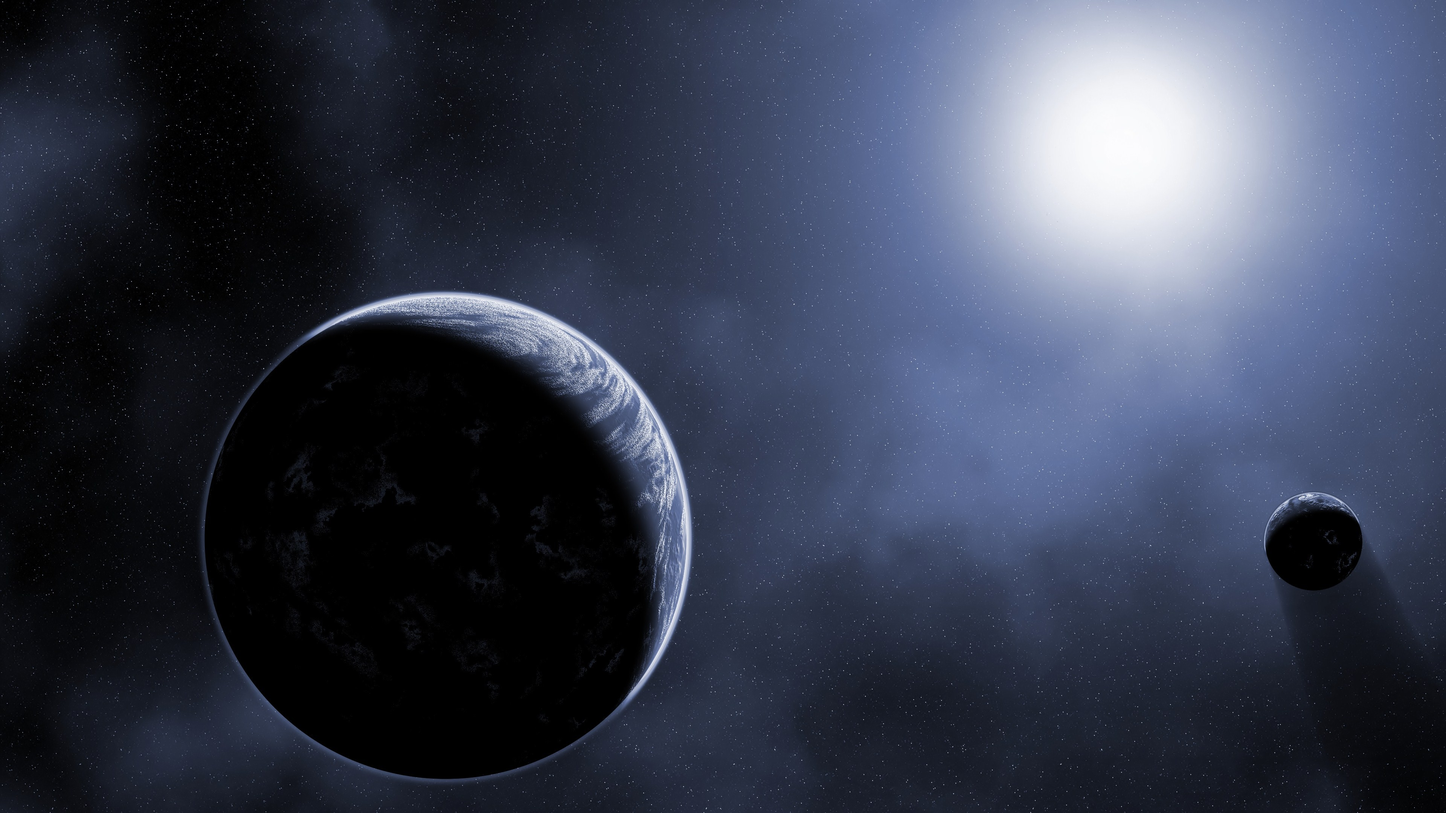
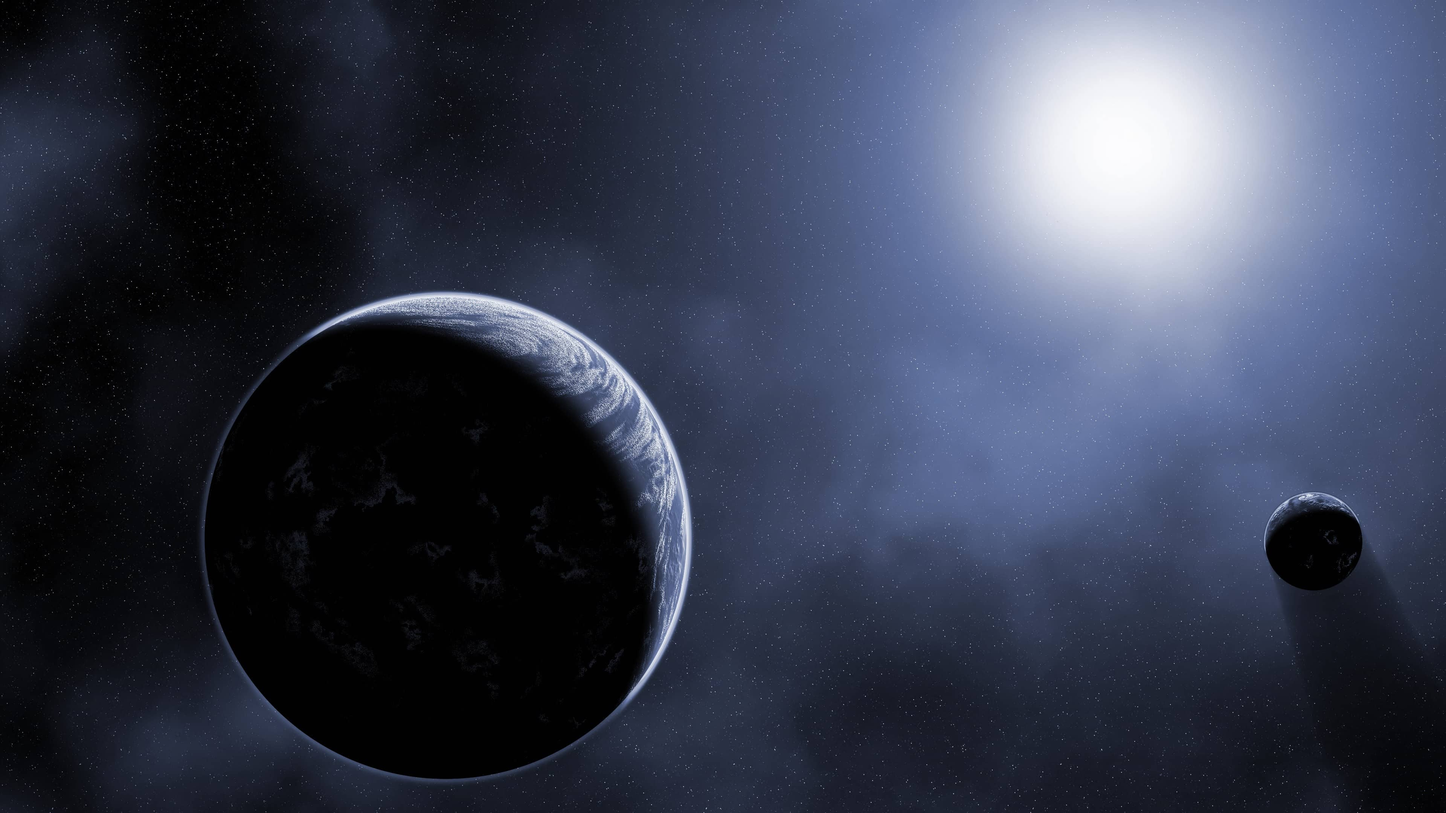
fixed navbar responsive, and fondo_mercury.jpg compressed

Changed region(s): [[0.25, 0.3722, 0.4375, 0.5273], [0.4375, 0.5273, 0.4688, 0.6204]]

diff --git a/mercury_app/templates/base.html b/mercury_app/templates/base.html
@@ -23,28 +23,28 @@
     <button class="navbar-toggler" type="button" data-toggle="collapse" data-target="#navbarNavDropdown" aria-controls="navbarNavDropdown" aria-expanded="false" aria-label="Toggle navigation">
       <span class="navbar-toggler-icon"></span>
     </button>
-    <div class="collapse navbar-collapse" id="navbarNavDropdown">
-      <ul class="navbar-nav">
-        <li class="nav-item active">
+    <div class="collapse navbar-collapse " id="navbarNavDropdown">
+      <ul class="navbar-nav mr-auto">
+        <li class="nav-item">
           <a class="nav-link" href="/">My events<span class="sr-only">(current)</span></a>
         </li>
         <li class="nav-item">
           <a class="nav-link" href="{% url 'select_events' %}">Add events</a>
         </li>
       </ul>
+      {% if user.is_authenticated %}
+      <ul class="nav navbar-nav navbar-right">
+        <li class="nav-item dropdown">
+          <a class="nav-link dropdown-toggle" href="#" id="navbarDropdownMenuLink" data-toggle="dropdown" aria-haspopup="true" aria-expanded="false">
+            {{ user.username }}
+          </a>
+          <div class="dropdown-menu" aria-labelledby="navbarDropdownMenuLink">
+            <a class="dropdown-item" href="{% url 'logout' %}">Logout</a>
+          </div>
+        </li>
+      </ul>
+      {% endif %} 
     </div>
-    {% if user.is_authenticated %}
-    <ul class="navbar-nav mr-auto">
-      <li class="nav-item dropdown">
-        <a class="nav-link dropdown-toggle" href="#" id="navbarDropdownMenuLink" data-toggle="dropdown" aria-haspopup="true" aria-expanded="false">
-          {{ user.username }}
-        </a>
-        <div class="dropdown-menu" aria-labelledby="navbarDropdownMenuLink">
-          <a class="dropdown-item" href="{% url 'logout' %}">Logout</a>
-        </div>
-      </li>
-    </ul>
-    {% endif %} 
   </ul>
 </div>
 </nav>
